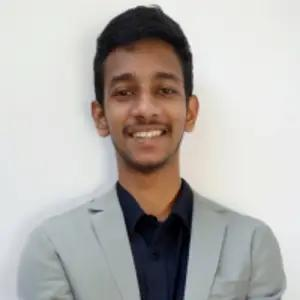
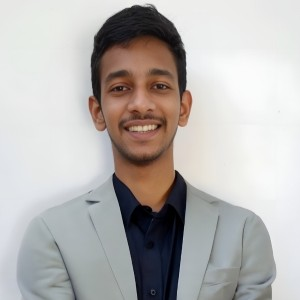
Update index.html and replace team member image

diff --git a/docs/index.html b/docs/index.html
@@ -210,7 +210,7 @@
       </div>
     </nav>
     <main class="mt-16">
-      <!-- Bespoke Hero Section -->
+      <!Hero Section -->
       <section
         class="relative min-h-[85vh] flex items-center overflow-hidden bg-surface-dark py-xl px-gutter"
       >
@@ -231,7 +231,7 @@
                 </span>
                 <span
                   class="text-[10px] font-bold uppercase tracking-[0.2em] text-accent"
-                  >Research Project 2024.08</span
+                  >Undergraduate Research Project</span
                 >
               </div>
               <h1
@@ -328,7 +328,7 @@
           </div>
         </div>
       </section>
-      <!-- Redesigned Abstract/Problem Section -->
+      <!-- Abstract/Problem Section -->
       <section class="py-xl px-gutter bg-white" id="summary">
         <div class="max-w-[1440px] mx-auto">
           <div class="grid lg:grid-cols-12 gap-xl">
@@ -500,7 +500,7 @@
                 <div
                   class="hover:scale-[1.05] transition-transform duration-300 p-4 rounded-lg hover:bg-slate-50"
                 >
-                  <div class="text-2xl font-bold text-primary">2 Cyc</div>
+                  <div class="text-2xl font-bold text-primary">2 Cycle</div>
                   <div
                     class="text-[9px] font-bold uppercase tracking-widest text-slate-400"
                   >
@@ -598,21 +598,6 @@
                   class="bg-white p-lg border border-outline-variant rounded-xl academic-shadow hover:scale-[1.01] hover:shadow-2xl transition-all duration-300"
                 >
                   <img
-                    alt="Microarchitecture Diagram"
-                    class="w-full rounded-lg"
-                    src="assets/Microarchitecture%20of%20the%20partitioned%20integer%20register%20file.svg"
-                  />
-                  <figcaption
-                    class="p-sm mt-4 text-center font-label-caps text-on-surface-variant text-sm uppercase"
-                  >
-                    Figure 1: Microarchitecture of the partitioned integer
-                    register file.
-                  </figcaption>
-                </figure>
-                <figure
-                  class="bg-white p-lg border border-outline-variant rounded-xl academic-shadow hover:scale-[1.01] hover:shadow-2xl transition-all duration-300"
-                >
-                  <img
                     alt="Architecture Diagram"
                     class="w-full rounded-lg"
                     src="assets/modified-riscv-datapath-with-register-partitioning-logic.svg"
@@ -620,10 +605,26 @@
                   <figcaption
                     class="p-sm mt-4 text-center font-label-caps text-on-surface-variant text-sm uppercase"
                   >
-                    Figure 2: Modified RISC-V Datapath with Register
+                    Figure 1: Modified RISC-V Datapath with Register
                     Partitioning Logic
                   </figcaption>
                 </figure>
+                <figure
+                  class="bg-white p-lg border border-outline-variant rounded-xl academic-shadow hover:scale-[1.01] hover:shadow-2xl transition-all duration-300"
+                >
+                  <img
+                    alt="Microarchitecture Diagram"
+                    class="w-full rounded-lg"
+                    src="assets/Microarchitecture%20of%20the%20partitioned%20integer%20register%20file.svg"
+                  />
+                  <figcaption
+                    class="p-sm mt-4 text-center font-label-caps text-on-surface-variant text-sm uppercase"
+                  >
+                    Figure 2: Microarchitecture of the partitioned integer
+                    register file.
+                  </figcaption>
+                </figure>
+
               </div>
             </div>
           </div>
@@ -686,7 +687,7 @@
                   </td>
                   <td class="px-6 py-5 text-on-surface-variant">None</td>
                   <td class="px-6 py-5 text-on-surface-variant">
-                    62 cy avg micro-path; stress avg 393 cy
+                    62 cycle avg micro-path; stress avg 393 cycle
                   </td>
                   <td class="px-6 py-5 text-on-surface-variant">
                     Baseline CVA6 path
@@ -702,7 +703,7 @@
                     Not primary target (focus is fast ISR)
                   </td>
                   <td class="px-6 py-5 text-on-surface-variant">
-                    6 cy reported
+                    6 cycle reported
                   </td>
                   <td class="px-6 py-5 text-on-surface-variant">
                     Yes (Background context commit)
@@ -717,7 +718,7 @@
                     Direct hardware switch in interrupt flow
                   </td>
                   <td class="px-6 py-5 text-on-surface-variant">
-                    4 cy reported
+                    4 cycle reported
                   </td>
                   <td class="px-6 py-5 text-on-surface-variant">
                     No (Depth-bounded HW stack)
@@ -731,7 +732,7 @@
                     +13.7% LUT / +6.9% FF
                   </td>
                   <td class="px-6 py-5 text-on-surface-variant">
-                    8 cy HW switch (VLIW context model)
+                    8 cycle HW switch (VLIW context model)
                   </td>
                   <td class="px-6 py-5 text-on-surface-variant">—</td>
                   <td class="px-6 py-5 text-on-surface-variant">No</td>
@@ -744,7 +745,7 @@
                     Internal register-window bank set
                   </td>
                   <td class="px-6 py-5 text-on-surface-variant">
-                    4 cy save+restore model
+                    4 cycle save+restore model
                   </td>
                   <td class="px-6 py-5 text-on-surface-variant">—</td>
                   <td class="px-6 py-5 text-on-surface-variant">
@@ -772,7 +773,7 @@
                     +2 CSRs + partitioned RF storage
                   </td>
                   <td class="px-6 py-5 font-bold text-on-surface">
-                    2 cy micro-path; 173 cy avg stress
+                    2 cycle micro-path; 173 cycle avg stress
                   </td>
                   <td class="px-6 py-5 text-on-surface-variant">
                     Baseline CVA6 trap path
@@ -865,7 +866,7 @@
                     >check_circle</span
                   >
                   <span class="text-on-surface-variant"
-                    >Verified on FPGA (Xilinx Artix-7) for power and area
+                    >Ready to be verified on FPGA (Xilinx Gensys 2) for power and area
                     metrics</span
                   >
                 </li>
@@ -882,7 +883,6 @@
               Research Team
             </h2>
             <p class="font-body-lg text-on-surface-variant">
-              Collaborative effort from the Department of Computer Engineering.
             </p>
           </div>
           <!-- Supervisors -->
@@ -890,7 +890,7 @@
             <h3
               class="font-label-caps text-xs tracking-widest uppercase text-primary mb-10 font-bold border-b border-outline-variant pb-2 inline-block"
             >
-              Faculty Supervisors
+              Research Supervisors
             </h3>
             <div class="grid grid-cols-2 md:grid-cols-4 gap-lg">
               <!-- Supervisor 1 -->
@@ -916,7 +916,12 @@
                 <p
                   class="text-[10px] font-medium uppercase tracking-wider text-on-surface-variant mt-1"
                 >
-                  Senior Lecturer
+                  Department of Computer Engineering
+                </p>
+               <p
+                  class="text-[10px] font-medium uppercase tracking-wider text-on-surface-variant mt-1"
+                >
+                  University of Peradeniya
                 </p>
               </div>
               <!-- Supervisor 2 -->
@@ -942,7 +947,12 @@
                 <p
                   class="text-[10px] font-medium uppercase tracking-wider text-on-surface-variant mt-1"
                 >
-                  Professor
+                  Department of Computer Engineering
+                </p>
+               <p
+                  class="text-[10px] font-medium uppercase tracking-wider text-on-surface-variant mt-1"
+                >
+                  University of Peradeniya
                 </p>
               </div>
               <!-- Supervisor 3 -->
@@ -968,7 +978,12 @@
                 <p
                   class="text-[10px] font-medium uppercase tracking-wider text-on-surface-variant mt-1"
                 >
-                  Senior Lecturer
+                  Department of Statistics and Computer Science
+                </p>
+                <p
+                  class="text-[10px] font-medium uppercase tracking-wider text-on-surface-variant mt-1"
+                >
+                  University of Peradeniya
                 </p>
               </div>
               <!-- Supervisor 4 -->
@@ -994,7 +1009,12 @@
                 <p
                   class="text-[10px] font-medium uppercase tracking-wider text-on-surface-variant mt-1"
                 >
-                  Lecturer (Prob.)
+                  School of Electrical and Computer Engineering
+                </p>
+                <p
+                  class="text-[10px] font-medium uppercase tracking-wider text-on-surface-variant mt-1"
+                >
+                  University of Sydney
                 </p>
               </div>
             </div>
@@ -1030,7 +1050,12 @@
                 <p
                   class="text-[10px] font-medium uppercase tracking-wider text-on-surface-variant mt-1"
                 >
-                  Undergraduate Researcher
+                  Department of Computer Engineering
+                </p>
+               <p
+                  class="text-[10px] font-medium uppercase tracking-wider text-on-surface-variant mt-1"
+                >
+                  University of Peradeniya
                 </p>
               </div>
               <!-- Student 2 -->
@@ -1056,7 +1081,12 @@
                 <p
                   class="text-[10px] font-medium uppercase tracking-wider text-on-surface-variant mt-1"
                 >
-                  Undergraduate Researcher
+                  Department of Computer Engineering
+                </p>
+               <p
+                  class="text-[10px] font-medium uppercase tracking-wider text-on-surface-variant mt-1"
+                >
+                  University of Peradeniya
                 </p>
               </div>
               <!-- Student 3 -->
@@ -1082,7 +1112,12 @@
                 <p
                   class="text-[10px] font-medium uppercase tracking-wider text-on-surface-variant mt-1"
                 >
-                  Undergraduate Researcher
+                  Department of Computer Engineering
+                </p>
+               <p
+                  class="text-[10px] font-medium uppercase tracking-wider text-on-surface-variant mt-1"
+                >
+                  University of Peradeniya
                 </p>
               </div>
             </div>
